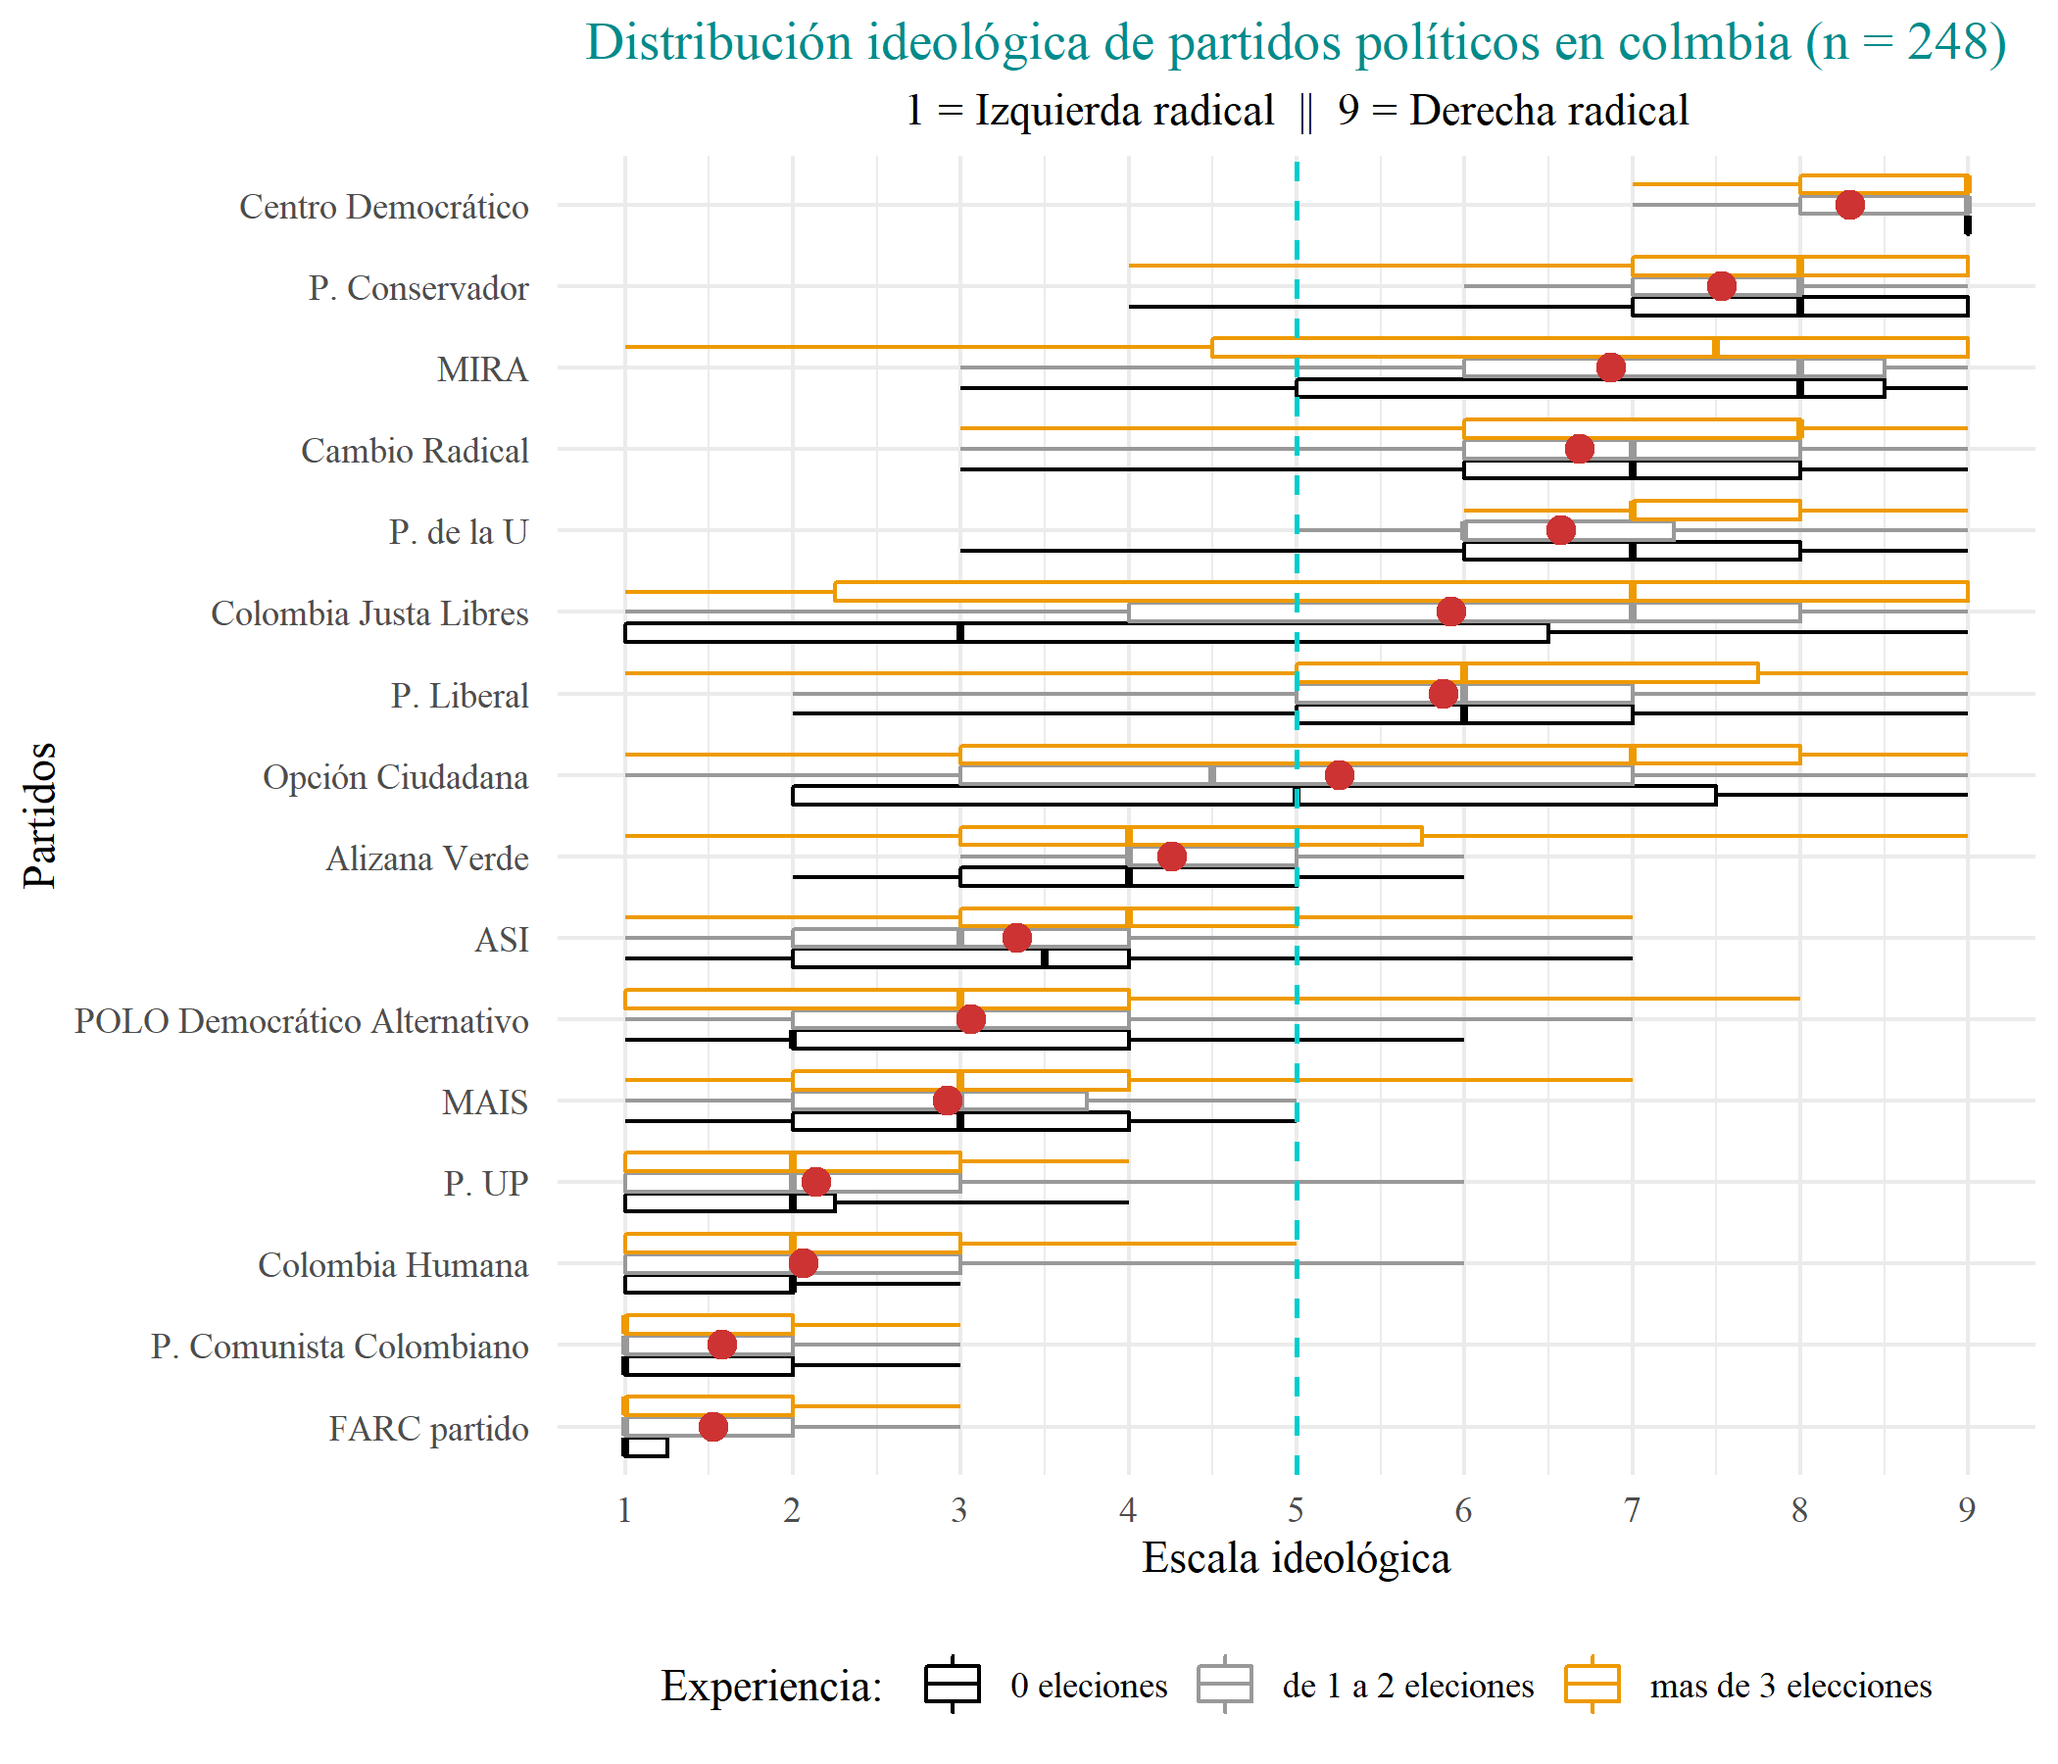
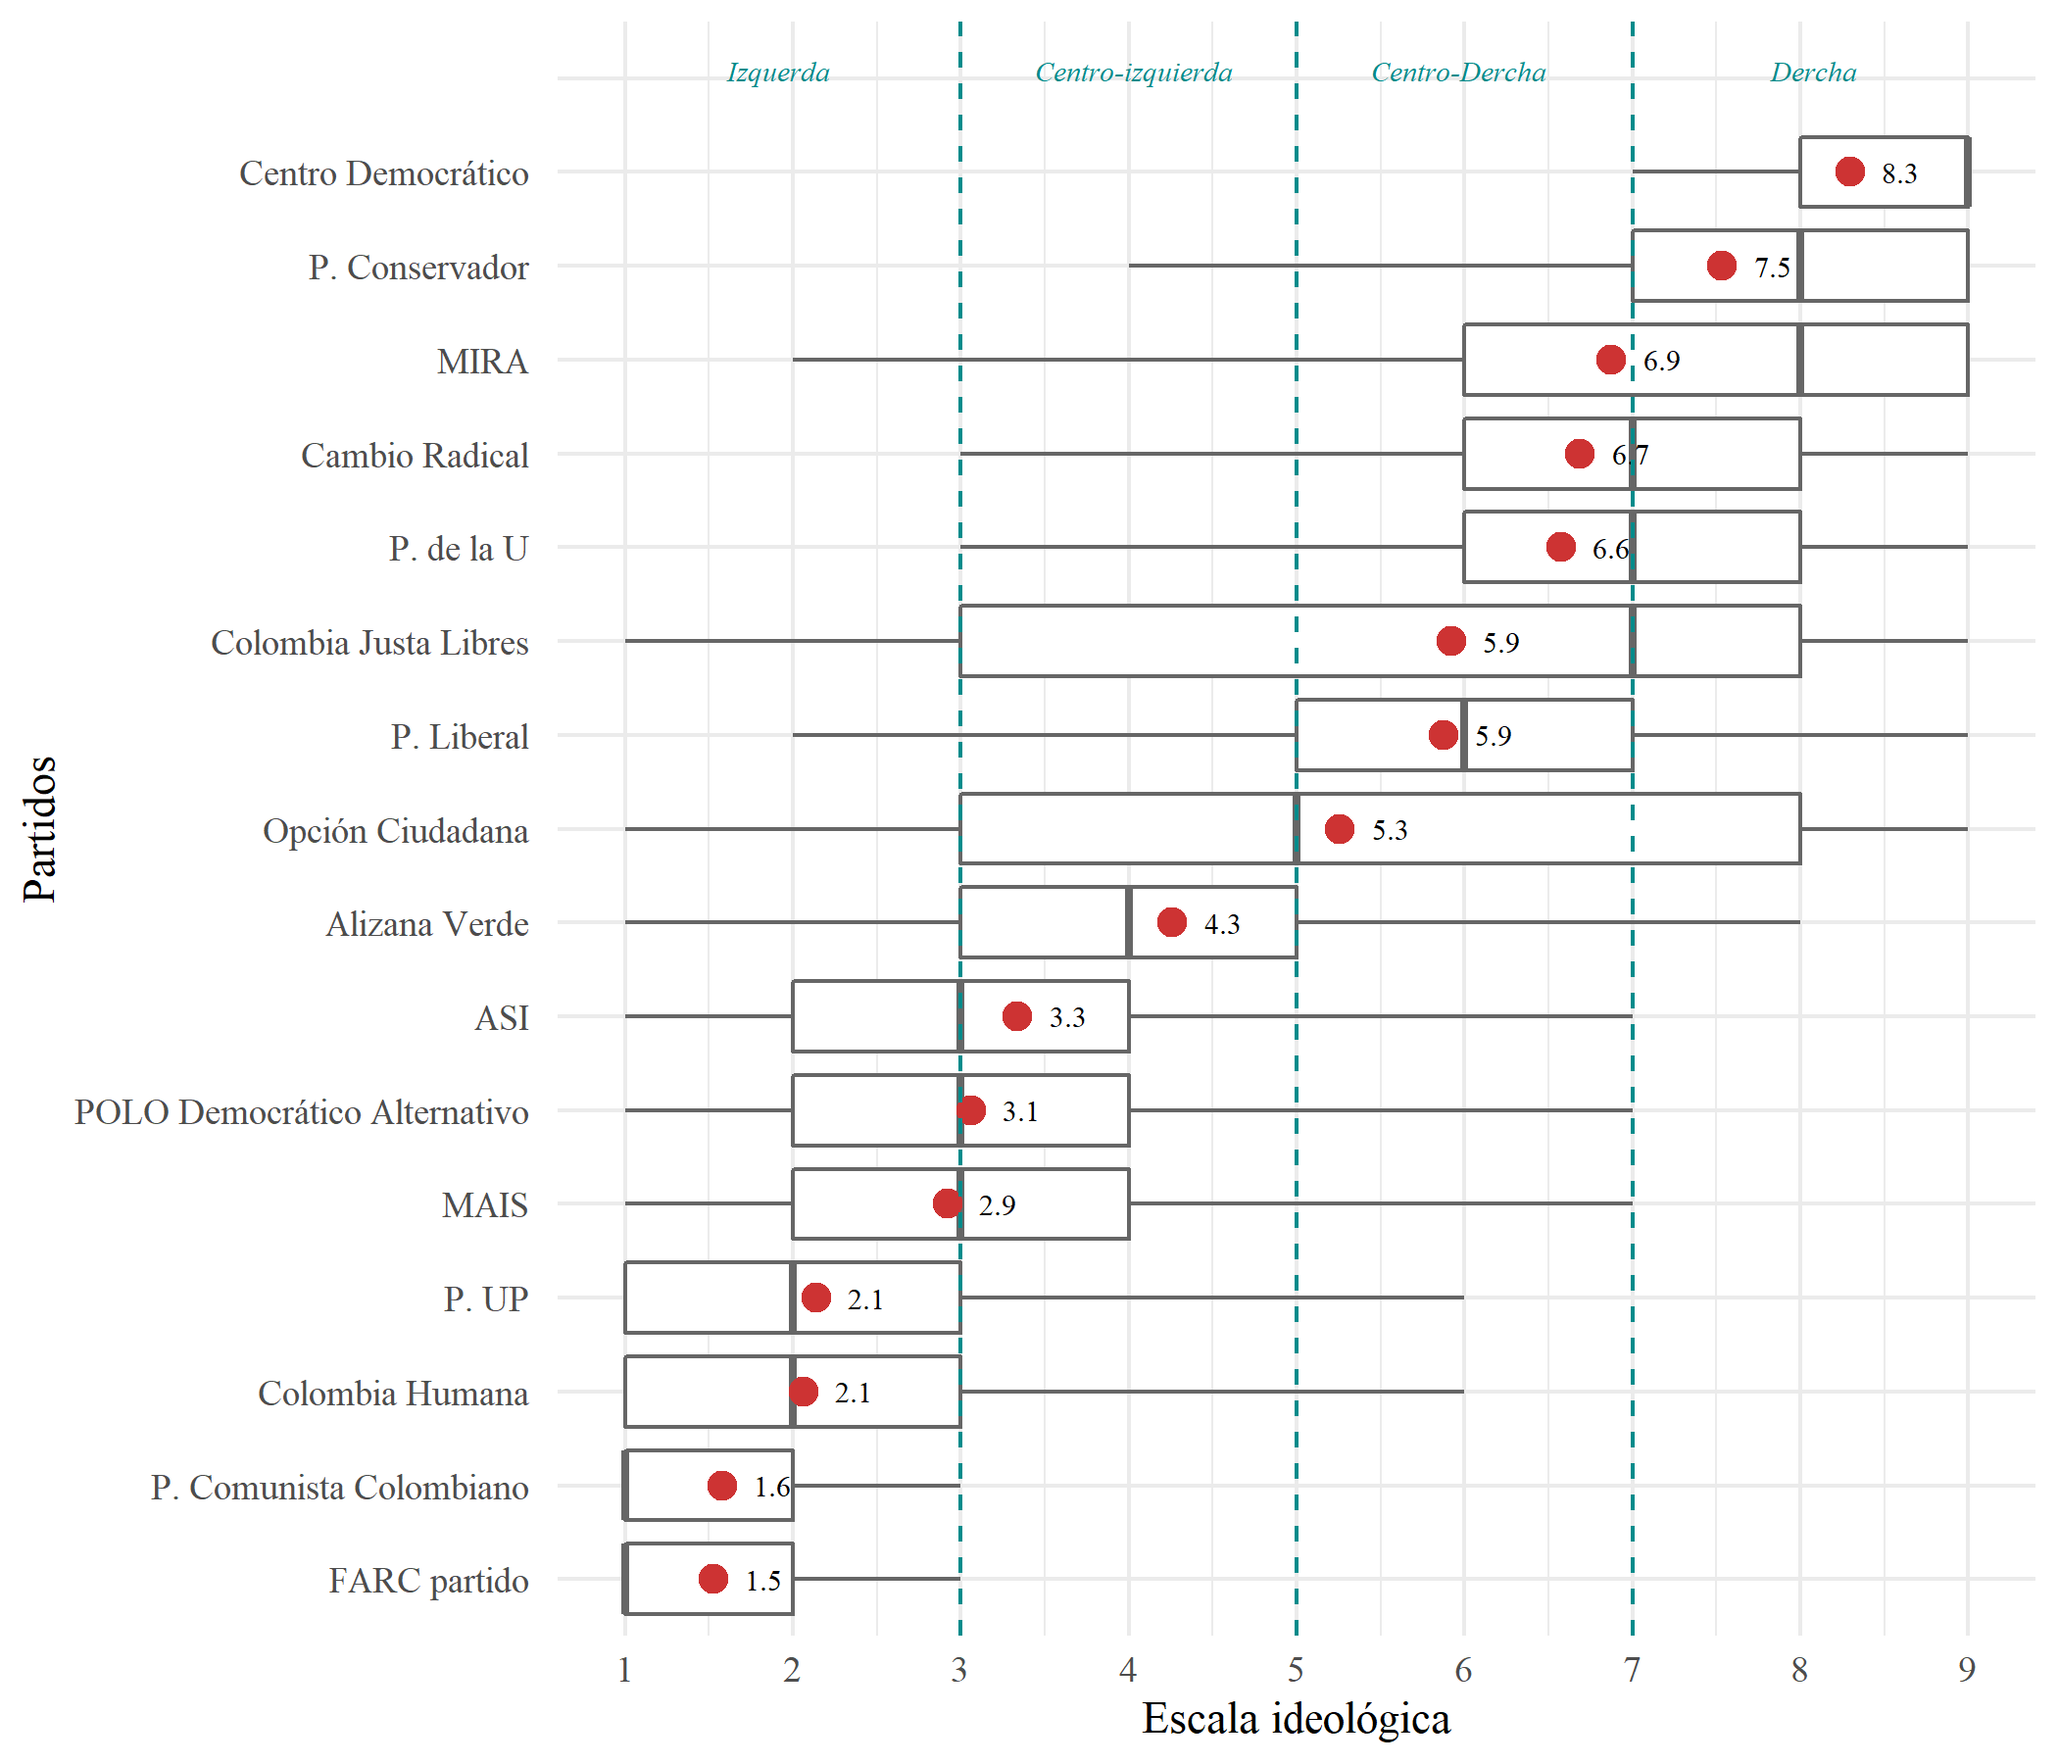
Mejoras grafica de ideologias y README

diff --git a/README.md b/README.md
@@ -1,4 +1,5 @@
 # Populism-and-susceptibility-towards-it
-This repo contains the scripts and par of the data of the "Populism and susceptibility towards it" and book chapter "Populismo y susceptibilidad territorial".
 
-Vamos a trabajar sobre datos electorales por municipio a nivel presidencial
+This repo contains the scripts and par of the data of the "Populism and susceptibility towards it" and book chapter "Populismo y susceptibilidad territorial
+
+![](02_figures/01_idiology_perceptions.png)
